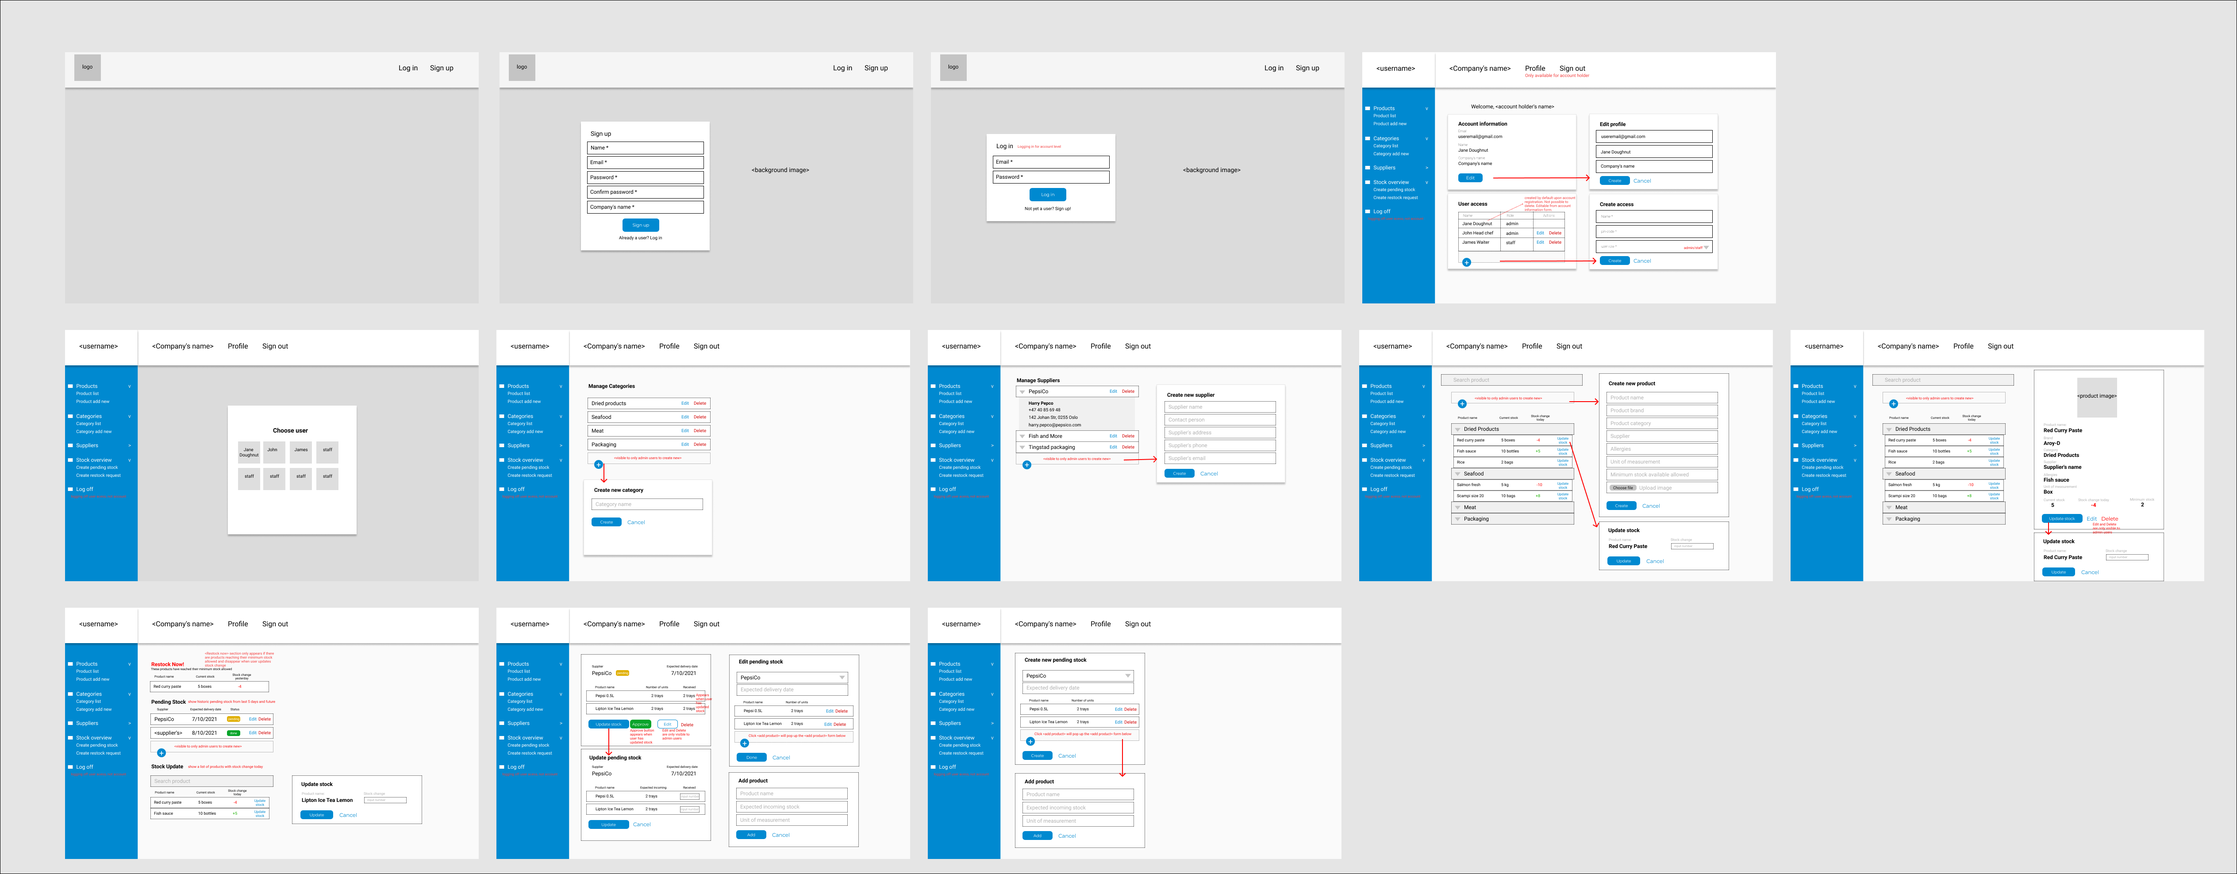
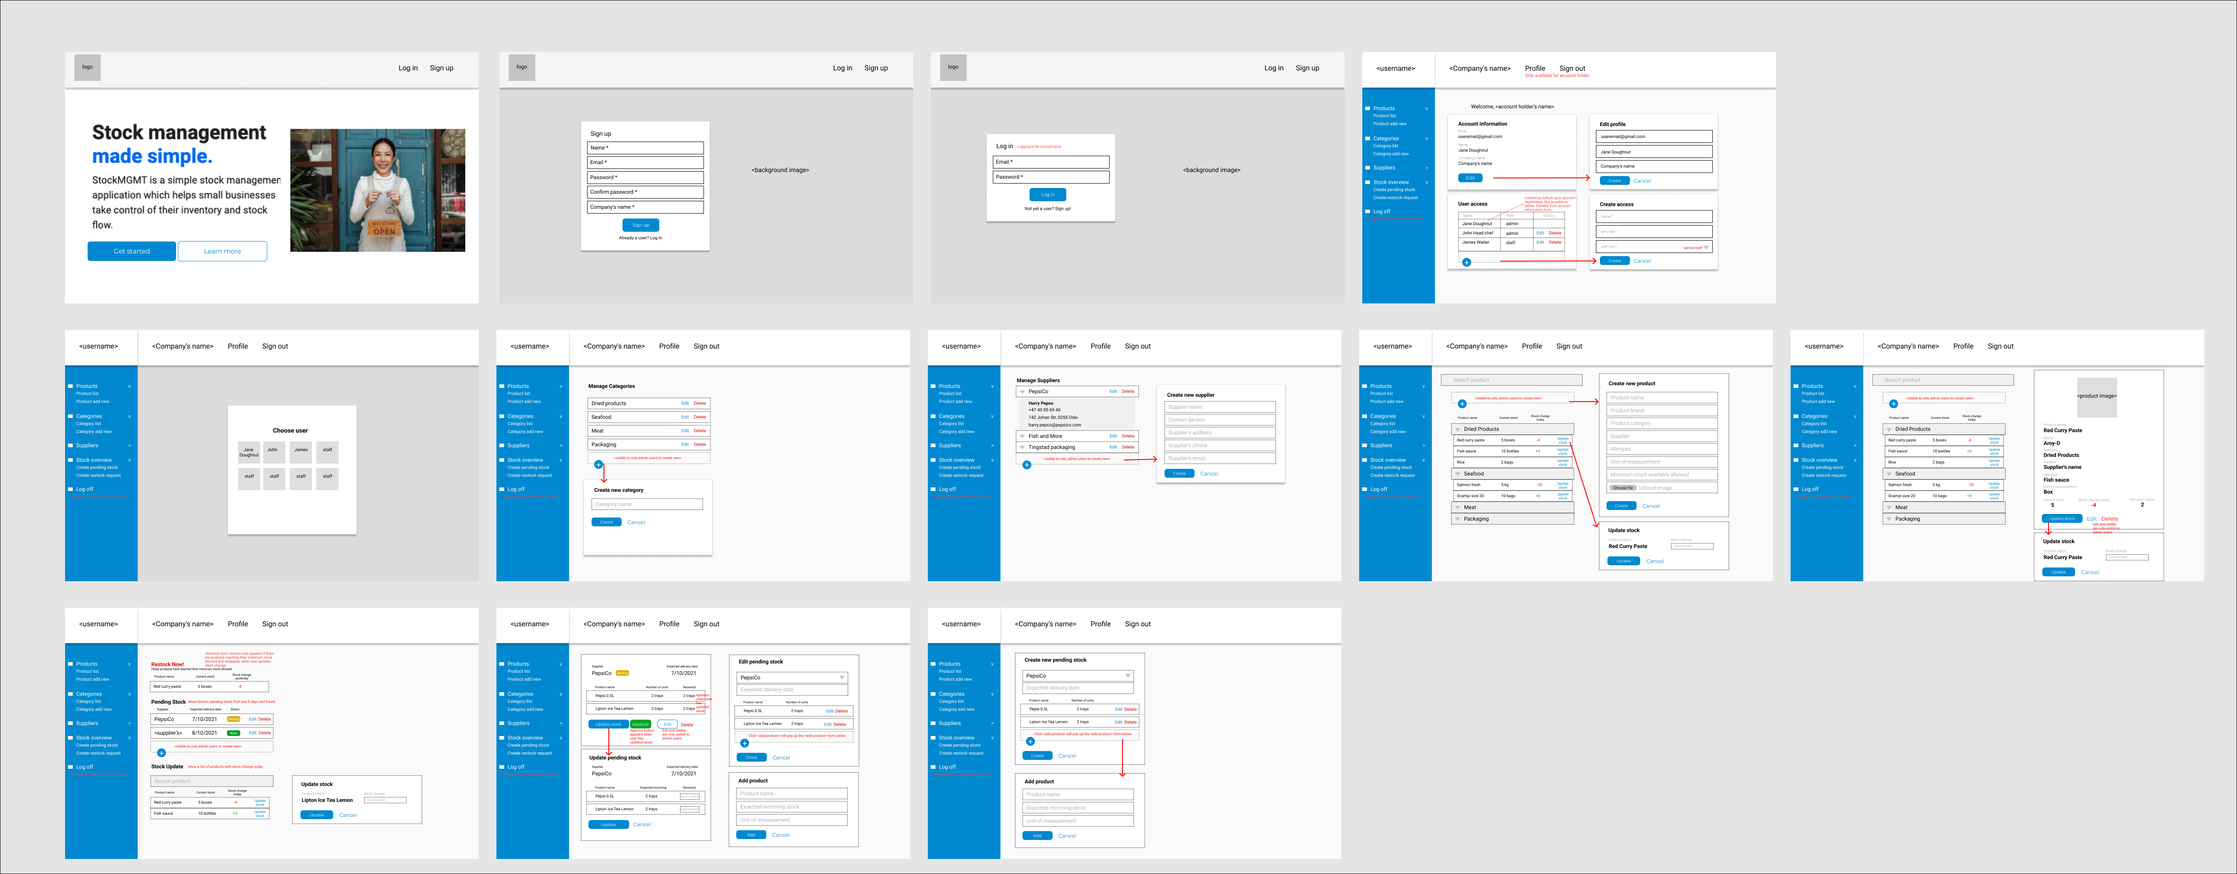
documentation: write Technologies used, Deployment, and Credits on README

Changed region(s): [[0.0312, 0.0926, 0.2188, 0.3704]]

diff --git a/README.md b/README.md
@@ -2,10 +2,12 @@
 ## Introduction
 Project milestone 3 for Code Institute Full-stack development program: backend development using Python-Flask and MongoDB.
 
-The purpose of the project is to create a stock management app which helps small business owners automate the process of tracking the stock flow and move away from spreadsheets or pen and paper which are prone to human errors. This project is for educational purpose to build a full-stack site showcasing data handling, database structure, CRUD user functionality. The problem to which this app is the solution, is based on a real life problem I have as co-owner of a take-away shop selling Asian food; therefore the business logic behind the app is drawn from I how would like to operate the stock flow management in my business.
+The purpose of the project is to create a stock management app which helps small business owners automate the process of tracking the stock flow and move away from spreadsheets or pen and paper which are prone to human errors. This project is for educational purpose to build a full-stack site showcasing data handling, database structure, CRUD user functionality. Some texts written on index page are fictional in order to create a feel for the project. The problem to which this app is the solution, is based on a real life problem I have as co-owner of a take-away shop selling Asian food; therefore the business logic behind the app is drawn from I how would like to operate the stock flow management in my business.
 
 ## Showcase
+![Responsiveness of the site](readme-assets/responsiveness.png)
 
+Link to the site: [http://ms3-stockmgmt.herokuapp.com/](http://ms3-stockmgmt.herokuapp.com/)
 
 ## Table of Contents
   - [User Experience (UX)](#user-experience-ux)
@@ -43,50 +45,45 @@ The purpose of the project is to create a stock management app which helps small
   * know what the app is about upon landing the site.
   * be able to sign up in order to start using the app.
    
-* As a user/ a business owner/ admin user, I want to:
+* As an account holder/ a business owner/ admin user, I want to:
   * create/read/update/delete user access to my staff with limited privileges.
   * create/read/update/delete suppliers that I order stock from.
   * create/read/update/delete product categories.
   * create/read/update/delete products.
   * see a list of products I have in my inventory grouped by categories.
-  <!-- * search for a supplier in the product list.
-  * search for a category in the product list. -->
   * search for a product in the product list.
   * update products' stocks.
   * create a pending order for incoming stock.
   * see the details of pending incoming stock orders in order to confirm and update the stock change according.
-  * be notified when a product has reached its minimum stock available in order to restock on time.  
-  <!-- * create a request a list of products that need to be restocked. -->
-  <!-- * be notified and approve restock request. -->
+  * be notified when a product has reached its minimum stock available in order to restock on time.
+  * see which product has had stock change today.  
 
 * As a user with staff privilege, I want to:
   * see a list of products avaible in the inventory grouped by categories.
-  <!-- * search for a supplier in the product list.
-  * search for a category in the product list. -->
   * search for a product in the product list.
   * update products' stocks.
   * see the details of pending incoming stock orders in order to confirm and update the stock change according.
-  <!-- * create a request a list of products that need to be restocked. -->
-
+  * be notified when a product has reached its minimum stock available to stay informed and escalate to managers if needed.
+  * see which product has had stock change today.
 
 ### Strategy
-The idea behind this project is based on my current need for an automated process to control stock flow for my business. The current process of recording stock in and out is very manual without detailed records of how much stock is going in and how much is taken out. When there is a need to check the stock level, staff is asked to go through the entire inventory in the storage to eyeball which product needs to be restocked. This often results in human errors where they miss out certain products which leads to buying the missing products at retail shops at higher price or not able to buy at all due to too short notice. Therefore the objective of this stock management app is to allow business owners to create a common database of all the products available is the inventory, be notified when a product has reached it minimum stock allowed, and see the stock flow coming in and out.
+The idea behind this project is based on my current need for an automated process to control stock flow for my business. The current process of recording stock in and out is very manual without detailed records of how much stock is going in and how much is taken out. When there is a need to check the stock level, staff is asked to go through the entire inventory in the storage to eyeball which product needs to be restocked. This often results in human errors where they miss out certain products which leads to buying the missing products at retail shops at higher price or not able to buy at all due to too short notice. Therefore the objective of this stock management app is to allow small business owners to create a common database of all the products available is the inventory, be notified when a product has reached it minimum stock allowed, and see the stock flow coming in and out.
 
 ### Scope
 1. Content requirements
 * Introduction what the app is about upon landing
-* List of: product categories / products (grouped by categories) / suppliers / staff acess
-* Detailed information of: products / suppliers
+* List of: product categories / products (grouped by categories) / suppliers / staff acess / pending stock orders
+* Detailed information of: products / suppliers / pending stock orders
 * Stock flow info:
   * Products with stock change today
-  * Expected delivery
+  * Expected delivery (pending stock)
   * Products that have reacherrd their minimum stock level allowed
 
 2. Functionality requirements
-* Super-user account:
+* Account holder:
   * Sign up / Log in
-  * Edit profile
-* CRUD functionality to create staff access with limited privileges
+  * Edit account
+* CRUD functionality to create staff access with admin or limited privileges
 * CRUD functionality for product categories / products / suppliers
 * Stock flow update:
   * Enter number of stock change for a chosen product
@@ -112,25 +109,39 @@ The site map above shows the architecture of the app. Upon landing the app, busi
 
 ### Skeleton
 #### Design
-* CSS framework chosen for this project is [MaterializeCSS](https://materializecss.com/), which is created and designed by Google. This framework is chosen for its clean, simple and clear response UI design, which is easy for novice users to navigate and interact with data and database.
+* CSS framework chosen for this project is [Bootstrap v5.1](https://getbootstrap.com/). This framework is chosen for its clean, simple and clear response UI design, which is easy for novice users to navigate and interact with data and database.
 
-* Color: I want to keep the color scheme as simple as possible in order to avoid too much distractions. The key color of the app is blue as blue hints a sense of business profressional and trustworthy. Therefore, blue will be used on the main action buttons, headings, and other highlighting purposes. Other than that, universal traffic light colors are used for other actions such as red for `delete` action, yellow for `pending`, green for `approve` and `done`. Primary texts are written in black `#212121` while secondary texts are gray-ish `#BDBDBD`. Below image shows color schemes which is based on Materialize CSS color palette.
+* Color: I want to keep the color scheme as simple as possible in order to avoid too much distractions. The key color of the app is blue as blue hints a sense of business profressional and trustworthy. Therefore, blue will be used on the main action buttons, headings, and other highlighting purposes. Other than that, universal traffic light colors are used for other actions such as red for `delete` action, yellow for `pending`, green for `approve` and `done`. Primary texts are written in black `#212529` while secondary texts are gray-ish `#6C757B`. Below image shows color schemes which is based on Bootstrap color palette.
 ![Color Schemes](readme-assets/skeleton-color-schemes.png)
 
 * Font: Roboto is the main font used for this app as it is a simple easy-to-read font which is suitable for all device sizes.
+  
 #### Wireframes
 * Wireframes for mobile: [View](readme-assets/skeleton-wireframe-mobile.png)
 * Wireframes for desktop: [View](readme-assets/skeleton-wireframe-desktop.png)
 * Collection of forms being utilized: [View](readme-assets/skeleton-wireframe-forms.png)
 * Tablet version will be similar to mobile version with an exception that the side navigation bar will remain visible instead of collasped. The `edit` pages (and edit forms) will be similar in design as `create` with some minor adjustments in text and actions.
+  
 #### Design changes
-
+1. Index page: extend texts on index page with a section about product's features, a section for testimonials, a call to act section, in order to give more (fictional) credibility to the product.
+2. Remove some features due to time-constraints: 'Choose user' step (the second log-in step for staff), product's image.
+3. Minor changes in terms of section layouts on the app and side navigation bar.
+4. Data structure was rethought and refined as I learned more about MongoDB and relationships. The current data structure set up is as below:
+![Data Structure changes](readme-assets/structure-database-design-changes.png)
 
 ## Features
 ### Existing Features
+Features that have been implemented can be found at [FEATURES.md](FEATURES.md).
 
 ### Future Implementations
-
+1. Features related to account management: change/reset password, invite users to join the database
+2. Product's image upload and rendering
+3. Bulk create/edit/delete data
+4. Pagination
+5. Save and show/search historic data for stock updates
+6. Aggregrations to show interest statistics on dashboard
+7. Integration with sales data
+etc.
 
 ## Technologies Used
 ### Languages
@@ -142,36 +153,131 @@ The site map above shows the architecture of the app. Upon landing the app, busi
 ### Programs & Tools
 * [Figma](https://www.figma.com/) -  for wireframe creation.
 * [Visual Studio Code](https://code.visualstudio.com/) - the code editor being used to build the project.
+* [PicResize](https://picresize.com/) - to resize large images.
 * [Chrome DevTools](https://developer.chrome.com/docs/devtools/) - used heavily for debugging during development and testing process.
 * [Git](https://git-scm.com/) - the built-in Git feature in VS Code was used for version control and push to github.
 * [Github](https://github.com/) - Github is used to store project's code remotely. 
-* [Google Fonts](https://fonts.google.com/) 
-* [Font Awesome](https://fontawesome.com/), [Flaticon](https://www.flaticon.com/), and [Freepik](https://www.freepik.com/) - implement icons for navigation menu, social links, forms.
+* [Google Fonts](https://fonts.google.com/) - to import Roboto font which is the main font for this project
+* [Bootstrap Icons](https://icons.getbootstrap.com/) - implement icons for navigation menu, forms, actions.
 * [Autoprefixer CSS online](https://autoprefixer.github.io/) - to parse CSS and add vendor prefixes.
 * [MongoDB](https://www.mongodb.com/) - the database being used to store application data and query.
+* [Heroku](https://www.heroku.com/) - platform being used to deploy the application
   
 ### Frameworks and Libraries
-* [MaterializeCSS](https://materializecss.com/) - the responsive front-end framework to build the layout and style the app.
-* [Flask](https://palletsprojects.com/p/flask/) - a micro web framework written in Python which is the barebone of this stock management app.
+* [Bootstrap v5.1](https://getbootstrap.com/) - the responsive front-end framework to build the layout and style the app.
+* [jQuery](https://jquery.com/) - a Javascript library used for simplicity of traversing HTML document and manipulation, event handling, and ajax.
+* [Flask](https://palletsprojects.com/p/flask/) - a micro web framework written in Python which is the barebone of this stock management app. 
 * [Jinja2](https://jinja.palletsprojects.com/en/3.0.x/) - a web template engine which is used to generate markups.
+* [Werkzeug](https://werkzeug.palletsprojects.com/en/2.0.x/utils/#logging) - generating and hashing password for security.
+* [MongoEngine](http://mongoengine.org/) - MongoEngine is a Document-Object Mapper for working with MongoDB from Python.
+* [Flask-MongoEngine](http://docs.mongoengine.org/projects/flask-mongoengine/en/latest/) - provides integration with MongoEngine.
+* [Flask-User](https://flask-user.readthedocs.io/en/latest/) - provides easy set up for user authentication, user mnagement, registration/login, role-based authorization.
+* [Flask-Login](https://flask-login.readthedocs.io/en/latest/) - a dependency used by Flask-User to handle login and logout.
+* [Flask-Mail](https://pythonhosted.org/flask-mail/) - a dependency used by Flask-User to send registration confirmation email to users.
+* [Flask-WTF](https://flask-wtf.readthedocs.io/en/1.0.x/) and [WTForms](https://wtforms.readthedocs.io/en/3.0.x/) - flexible forms validation and rendering library for Python web development with CSRF Token
 
 ## Testing
+Testing can be found in its own section [TESTING.md](TESTING.md)
 
 ## Deployment
 ### Development
+1. Environement:
+The project was developed using VS Code editor and its integrated version control feature to commit gits, which are then pushed to GitHub in order to store the codes remotely. The project is hosted on Heroku and can be accessed at [http://ms3-stockmgmt.herokuapp.com/](http://ms3-stockmgmt.herokuapp.com/).
 
-### Deployment to Heroku
+2. Project management and development workflow:
+* Project management: In order to keep track of my own progression and to-dos, I created [2 kanban project boards](https://github.com/thanh-cao/ms3-stock-management/projects) on GitHub: one is for front-end work, and the other is for backend work. Based on project's requirements and wireframes, I scope out the tasks and assign them to the corresponding project board with 3 phases: To do, In progress, and Done.
+* Creating issues as a way to keep a list of small things to build / to do / to fix as I go along with developing the big features.
+* Branches: I created a branch for each feature, develop on the respective branch, and pushed them to GitHub.
 
-### Cloning the project
+3. Requirements to develop and deploy project:
+There are 2 requirements in order to develop the project locally and then deployed to Heroku:
+* Database and connection string with [MongoDB](https://www.mongodb.com/):
+  * Create an account on [MongoDB](https://www.mongodb.com/)
+  * Create a cluster of your choice following the instructions on [MongoDB Atlas](https://docs.atlas.mongodb.com/tutorial/create-new-cluster/)
+  * Access the cluster you have created and create a database with name of your choice.
+  * Under `Overview` tab, find `connect` button and click it.
+  * Choose second connection method using MongoDB's native drivers. Choose driver Python and version that is suitable to you. You will find a connection string in the `Connection String` section which will be used to connect to MongoDB when you set up the environment locally and to deploy to Heroku.
+
+* Create an account with [Heroku](https://www.heroku.com/) following the instructions from the site.
 
 ### Forking the project
+1. Log in to GitHub and navigate to this project's respository: [ms3-stock-management](https://github.com/thanh-cao/ms3-stock-management).
+2. Just above the navigation menu of the repository (above the Settings button), locate the Fork button.
+3. The original copy of the repository is now copied on your GitHub account which allows you to view and/or work on the codes without affecting the original work.
 
+### Cloning the project
+Follow these steps to clone this project:
+
+1.Log in to GitHub and navigate to this project's respository: [ms3-stock-management](https://github.com/thanh-cao/ms3-stock-management).
+2. Under the navigation menu of the repository, locate and click the button "Code" which shows different options to clone or download.
+3. To clone this repository using HTTPS, copy the link under "Clone with HTTPS".
+4. Open Git terminal.
+5. If needed, change the current workspace to the location where you want the repository to be cloned
+6. Type git clone and paste in the URL copied in step 3 and press Enter.
+
+### Setting up the environment for development
+1. Create `env.py` file:
+   * Create a env.py file in the root directory of the project.
+   * Add the following code to the file:
+    ``` Python
+    import os
+    os.environ.setdefault('IP', '0.0.0.0')
+    os.environ.setdefault('PORT', '5000')
+    os.environ.setdefault('SECRET_KEY', 'your_secret_key') # insert your own secret key
+    os.environ.setdefault('MONGO_URI', 'your_mongo_connection_string') # insert connection string from the steps above
+    os.environ.setdefault('MONGO_DBNAME', 'your_db_name') # insert your database name
+
+    # Further info on setting email server below
+    os.environ.setdefault('MAIL_SERVER', 'smtp.gmail.com')
+    os.environ.setdefault('MAIL_PORT', '587')
+    os.environ.setdefault('MAIL_USERNAME', 'your_gmail_address')
+    os.environ.setdefault('MAIL_PASSWORD', 'your_gmail_password')
+    os.environ.setdefault('USER_EMAIL_SENDER_EMAIL', 'your_gmail_address')
+
+    os.environ.setdefault('DEBUG', 'True') # set to False when deploying to Heroku
+    ```
+    * If you are using gmail to send emails, you will have to turn off the "less secure apps" option in your gmail account. More info can be found [here](https://support.google.com/accounts/answer/6010255). If you use another email service provider, please check their documentation for how to set up stmp server to send emails through another app.
+    * Add `env.py` and `__pycache__` to .gitignore to secure your sensitive data.
+
+2. Create virtual environment and install dependencies:
+   * Create a virtual environment in the root directory of the project.
+   * Type `python3 -m venv venv` in the terminal and press Enter.
+   * Type `source venv/bin/activate` in the terminal and press Enter.
+   * Type `pip install -r requirements.txt` in the terminal and press Enter.
+  
+3. requirements.txt and Procfile:
+   * The currently available `requirements.txt` file from this repo contains the list of dependencies that are required to run this project. If you develop the project further using more packages and dependencies, you can add them to the `requirements.txt` file with the following command in terminal:
+    ```
+    pip freeze > requirements.txt
+    ```
+    * The currently available `Procfile` file contains the command `web: python app.py`. It is used to determine which command to run when the app is started on Heroky. If you develop the project further with a different commands to run the app, make adjustment to `Procfile` file accordingly.
+    * Push your changes to requirements.txt and Procfile to GitHub if any.
+
+### Deployment to Heroku
+1. Log in to [Heroku](https://www.heroku.com/)
+2. On top right corner of the screen, locate the `New` button and the choose `Create new app`.
+3. Give a unique name to the app, choose appropriate region, and click `Create`.
+4. Access your app dashboard and click on `Deploy`.
+5. Under `Deployment method`, choose GitHub and coonect to the respective repository.
+6. Enable automatic deployment and click `Deploy`.
+7. Set up environment on Heroku by going to `Settings` tab.
+8. On `Config Vars` section, click `Reveal Config Vars`
+9. Based on `env.py` file, add all the environment variables to the `Config Vars` section.
+10. On top right coner of the app's dashboard, locate the button `Open app`. You will be able to see you deployed app with link to live site.
 
 ## Credits
 ### Code
-
+Thanks to the almighty Internet and its endless resouces to learn, I have found some very useful tutorials, challenges that were very specific to help me build certain features for my project.
+1. Tutorial on creating form macros with Bootstrap styling by Pretty Printed- [Link](https://www.youtube.com/watch?v=Frb0NXe1IHw)
+2. Flask form submission without page reload on GeeksforGeeks which gives me an idea to use ajax to communicate between frontend and backend - [Link](https://www.geeksforgeeks.org/flask-form-submission-without-page-reload/)
+3. Wes Bos' 30-day JavaScript challange (challenge number 6) which gives me a guide on creating type ahead function using ajax - [Link](https://javascript30.com/)
+4. Git commit conventional message - [Link](https://www.conventionalcommits.org/en/v1.0.0/)
 ### Content
+All the content throughout the page is written by me, inspiration for index page from [Sortly](https://www.sortly.com/).
 
 ### Media
+1. Hero image: Photo by Ketut Subiyanto from [Pexels](https://www.pexels.com/photo/ethnic-female-cafe-owner-showing-welcome-we-are-open-inscription-4473398/)
+2. Portraits for testimonials: Photo by Ketut Subiyanto from [Pexels](https://www.pexels.com/photo/concentrated-asian-woman-working-in-cozy-cafeteria-4473490/), Photo by Kampus Production from [Pexels](https://www.pexels.com/photo/woman-in-gray-jacket-smiling-7289739/), Photo by Meruyert Gonullu from [Pexels](https://www.pexels.com/photo/man-in-shoe-store-near-shelves-with-boxes-6888761/), Photo by Polina Tankilevitch from [Pexels](https://www.pexels.com/photo/cashier-in-store-3735168/).
 
 ### Acknowledgement
+Big shout to my mentor Narender Singh for the constructive feedback to help me improve my skills and knowledge. A big thanks to the amazing Code Institute's Slack community as always for reviewing, giving feedback, and mental support.
